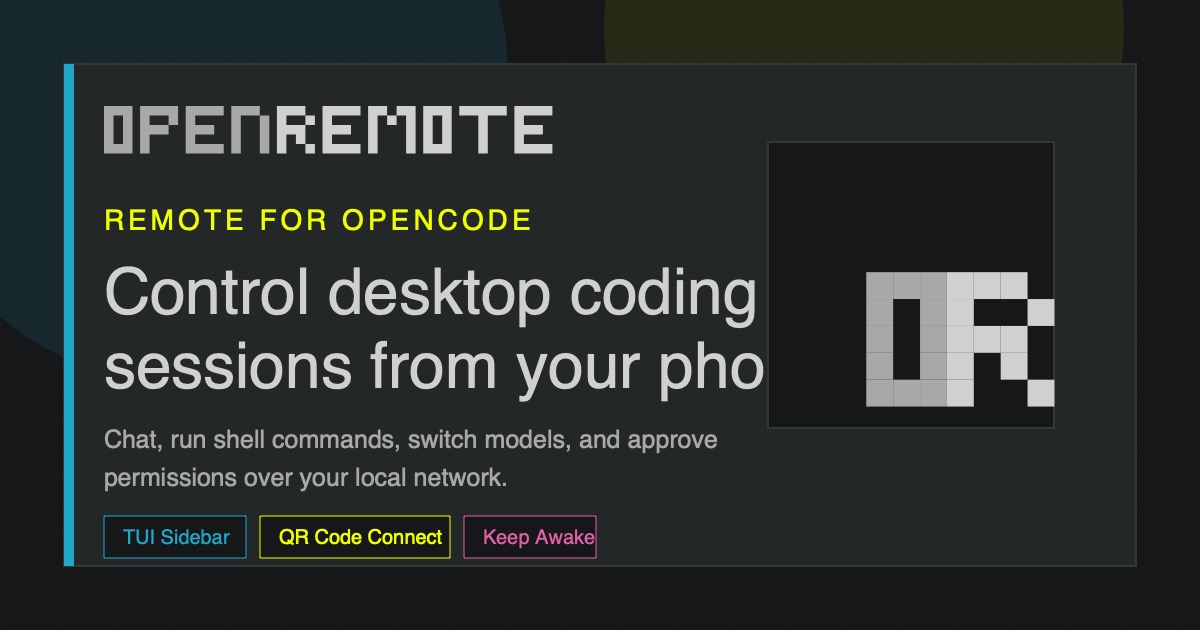
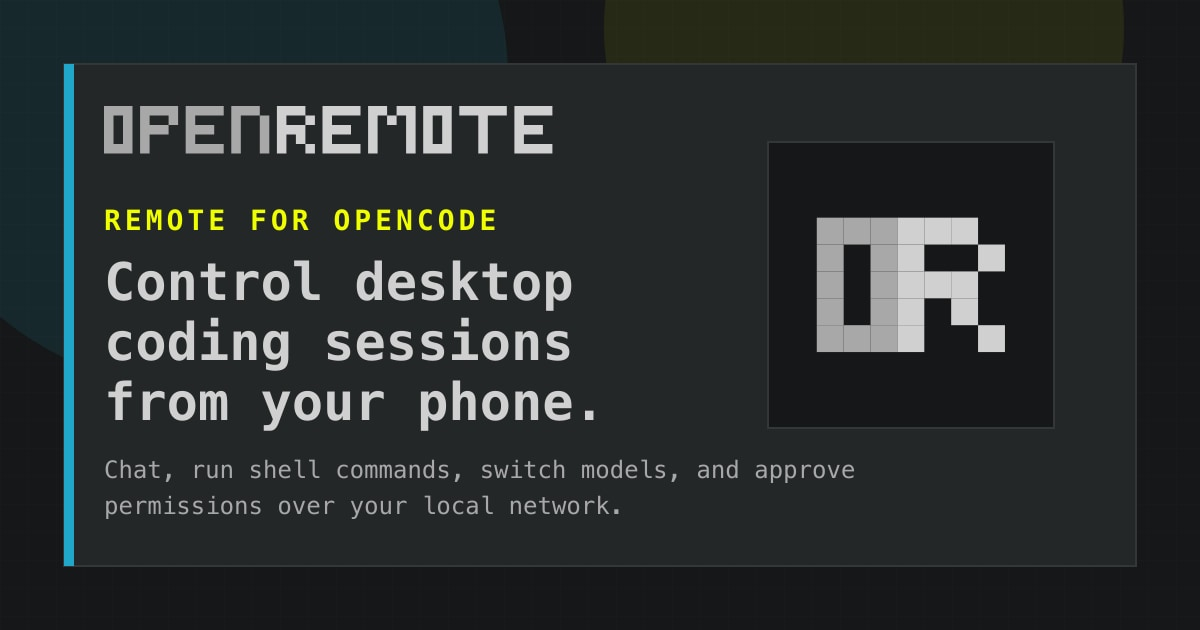
Generate OpenRemote OG image

Changed region(s): [[0.0617, 0.3921, 0.7092, 0.9048], [0.6783, 0.3317, 0.8942, 0.6635], [0.0617, 0.3317, 0.4625, 0.3921]]

diff --git a/src/styles/global.css b/src/styles/global.css
@@ -49,6 +49,13 @@ body.og-page {
   overflow: hidden;
 }
 
+.og-export-preview,
+.og-export-preview img {
+  display: block;
+  width: 1200px;
+  height: 630px;
+}
+
 a {
   color: inherit;
   text-decoration: none;